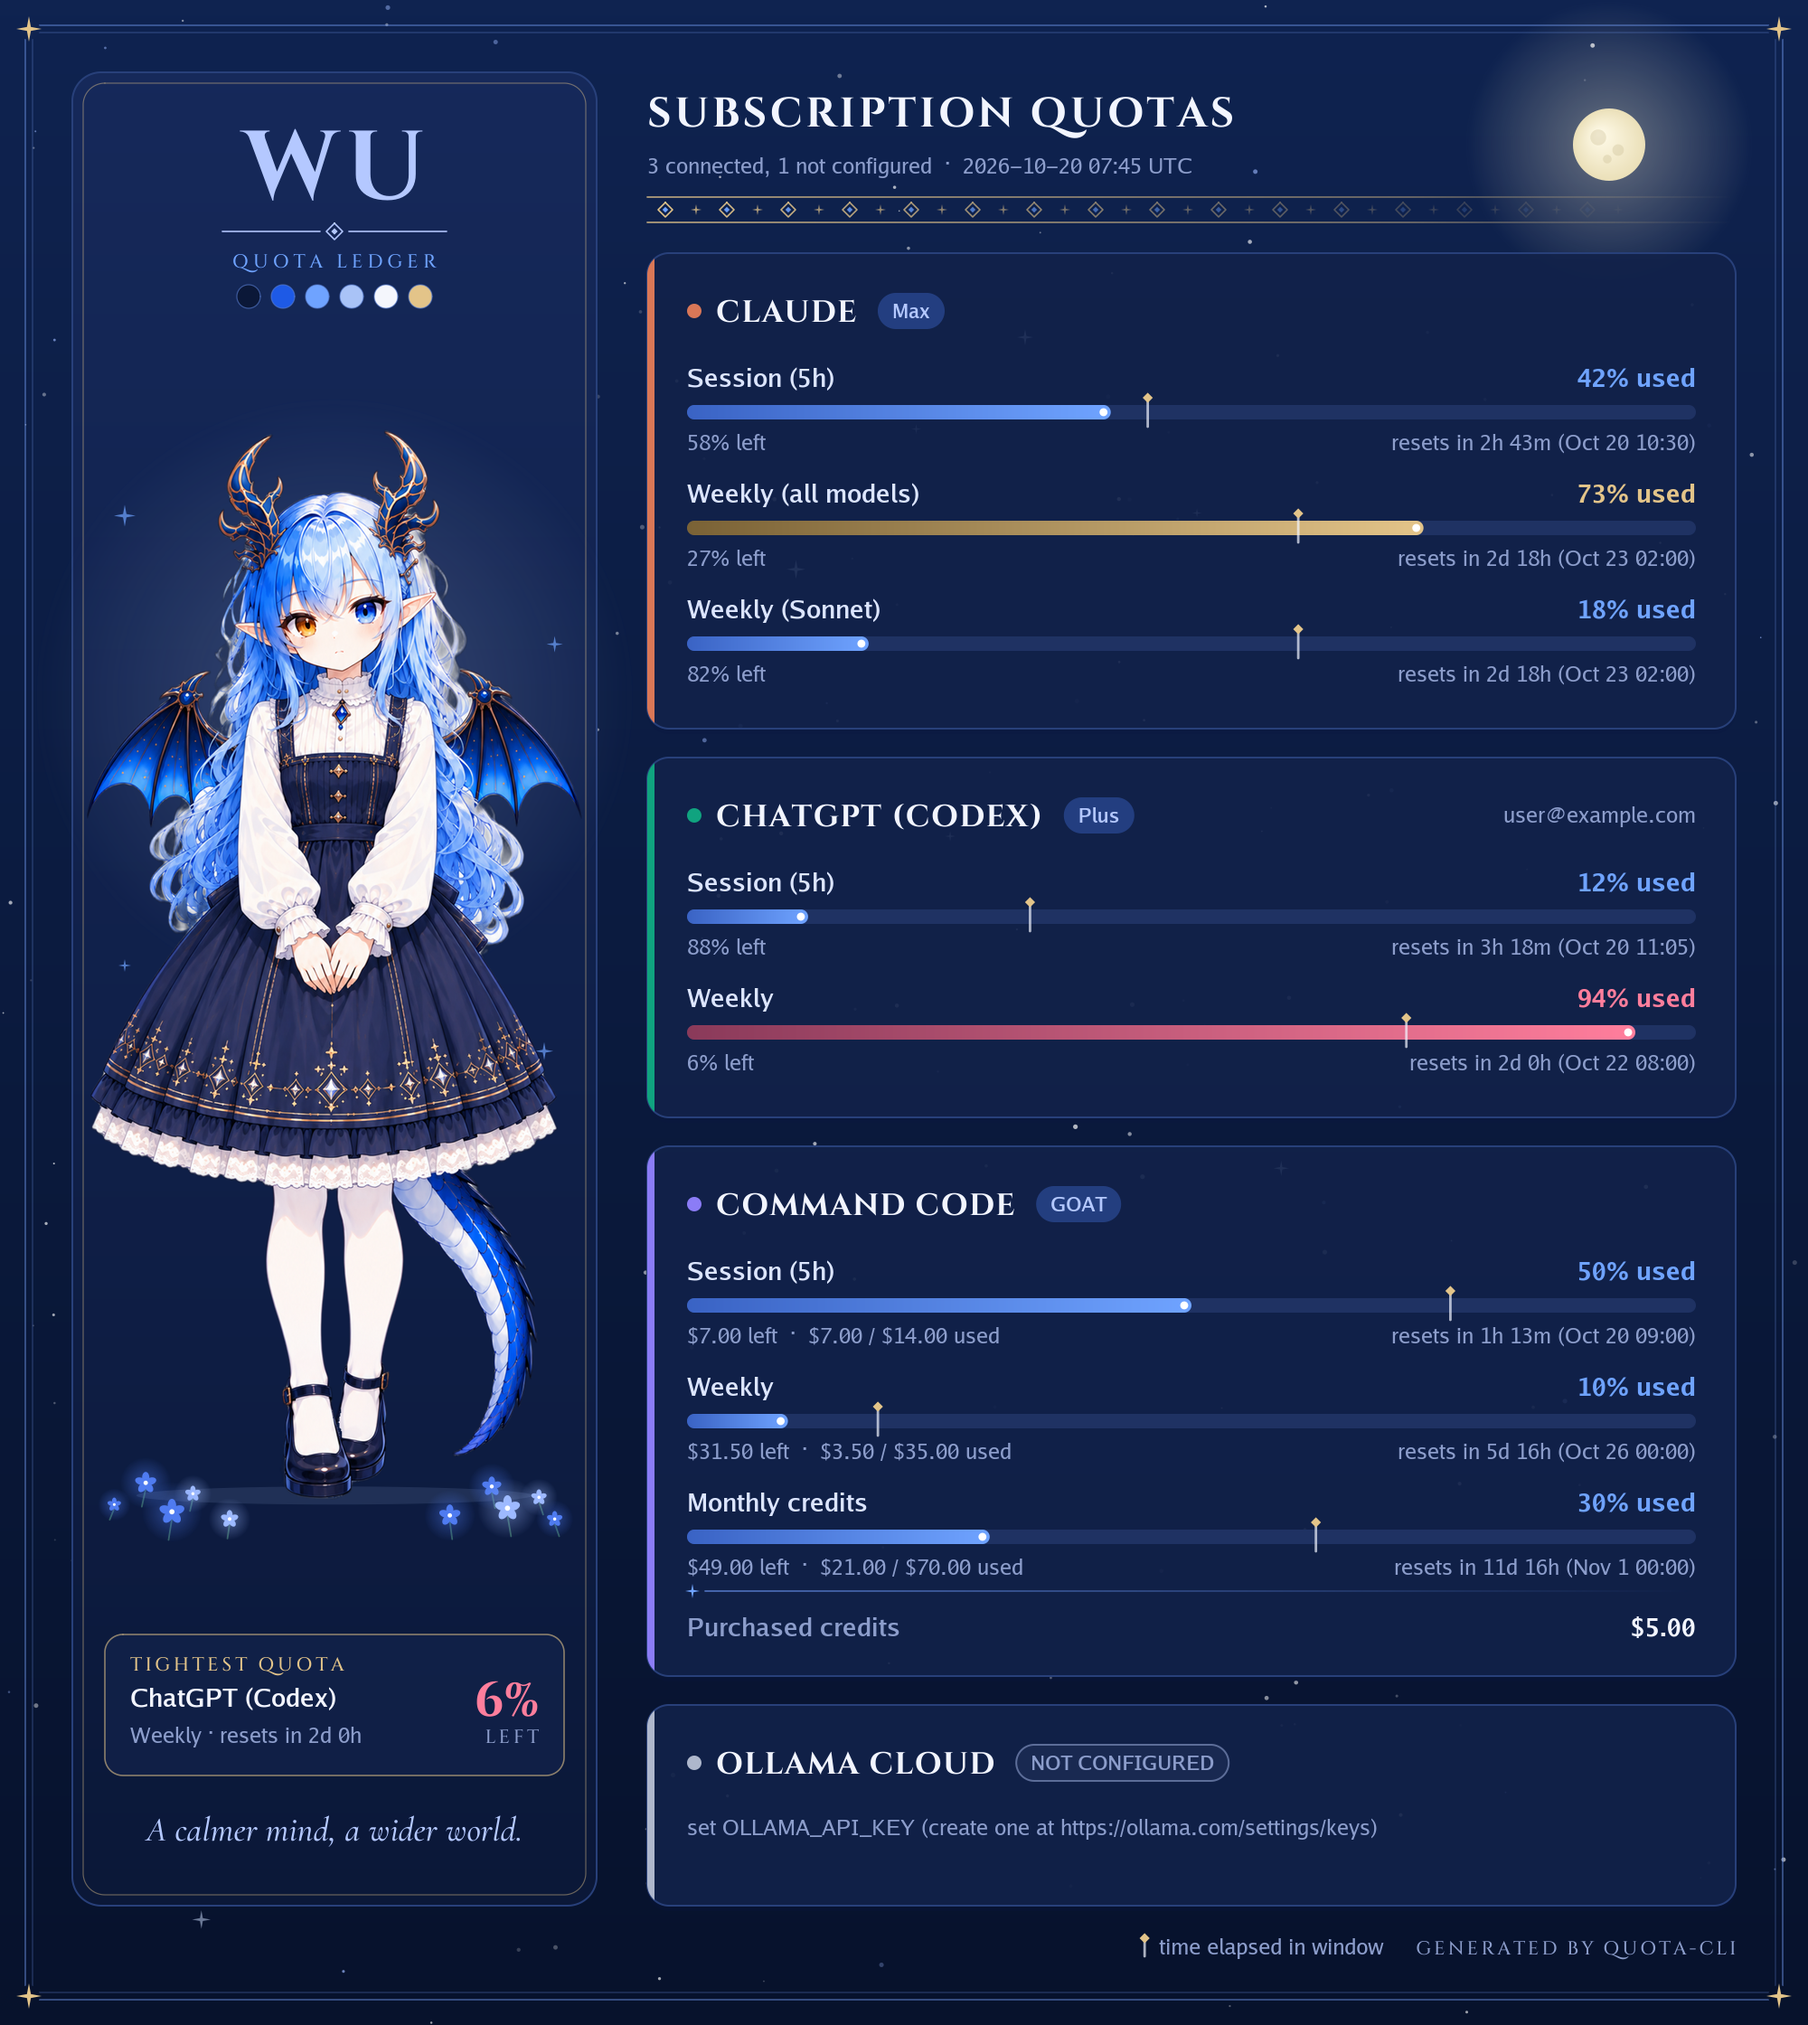
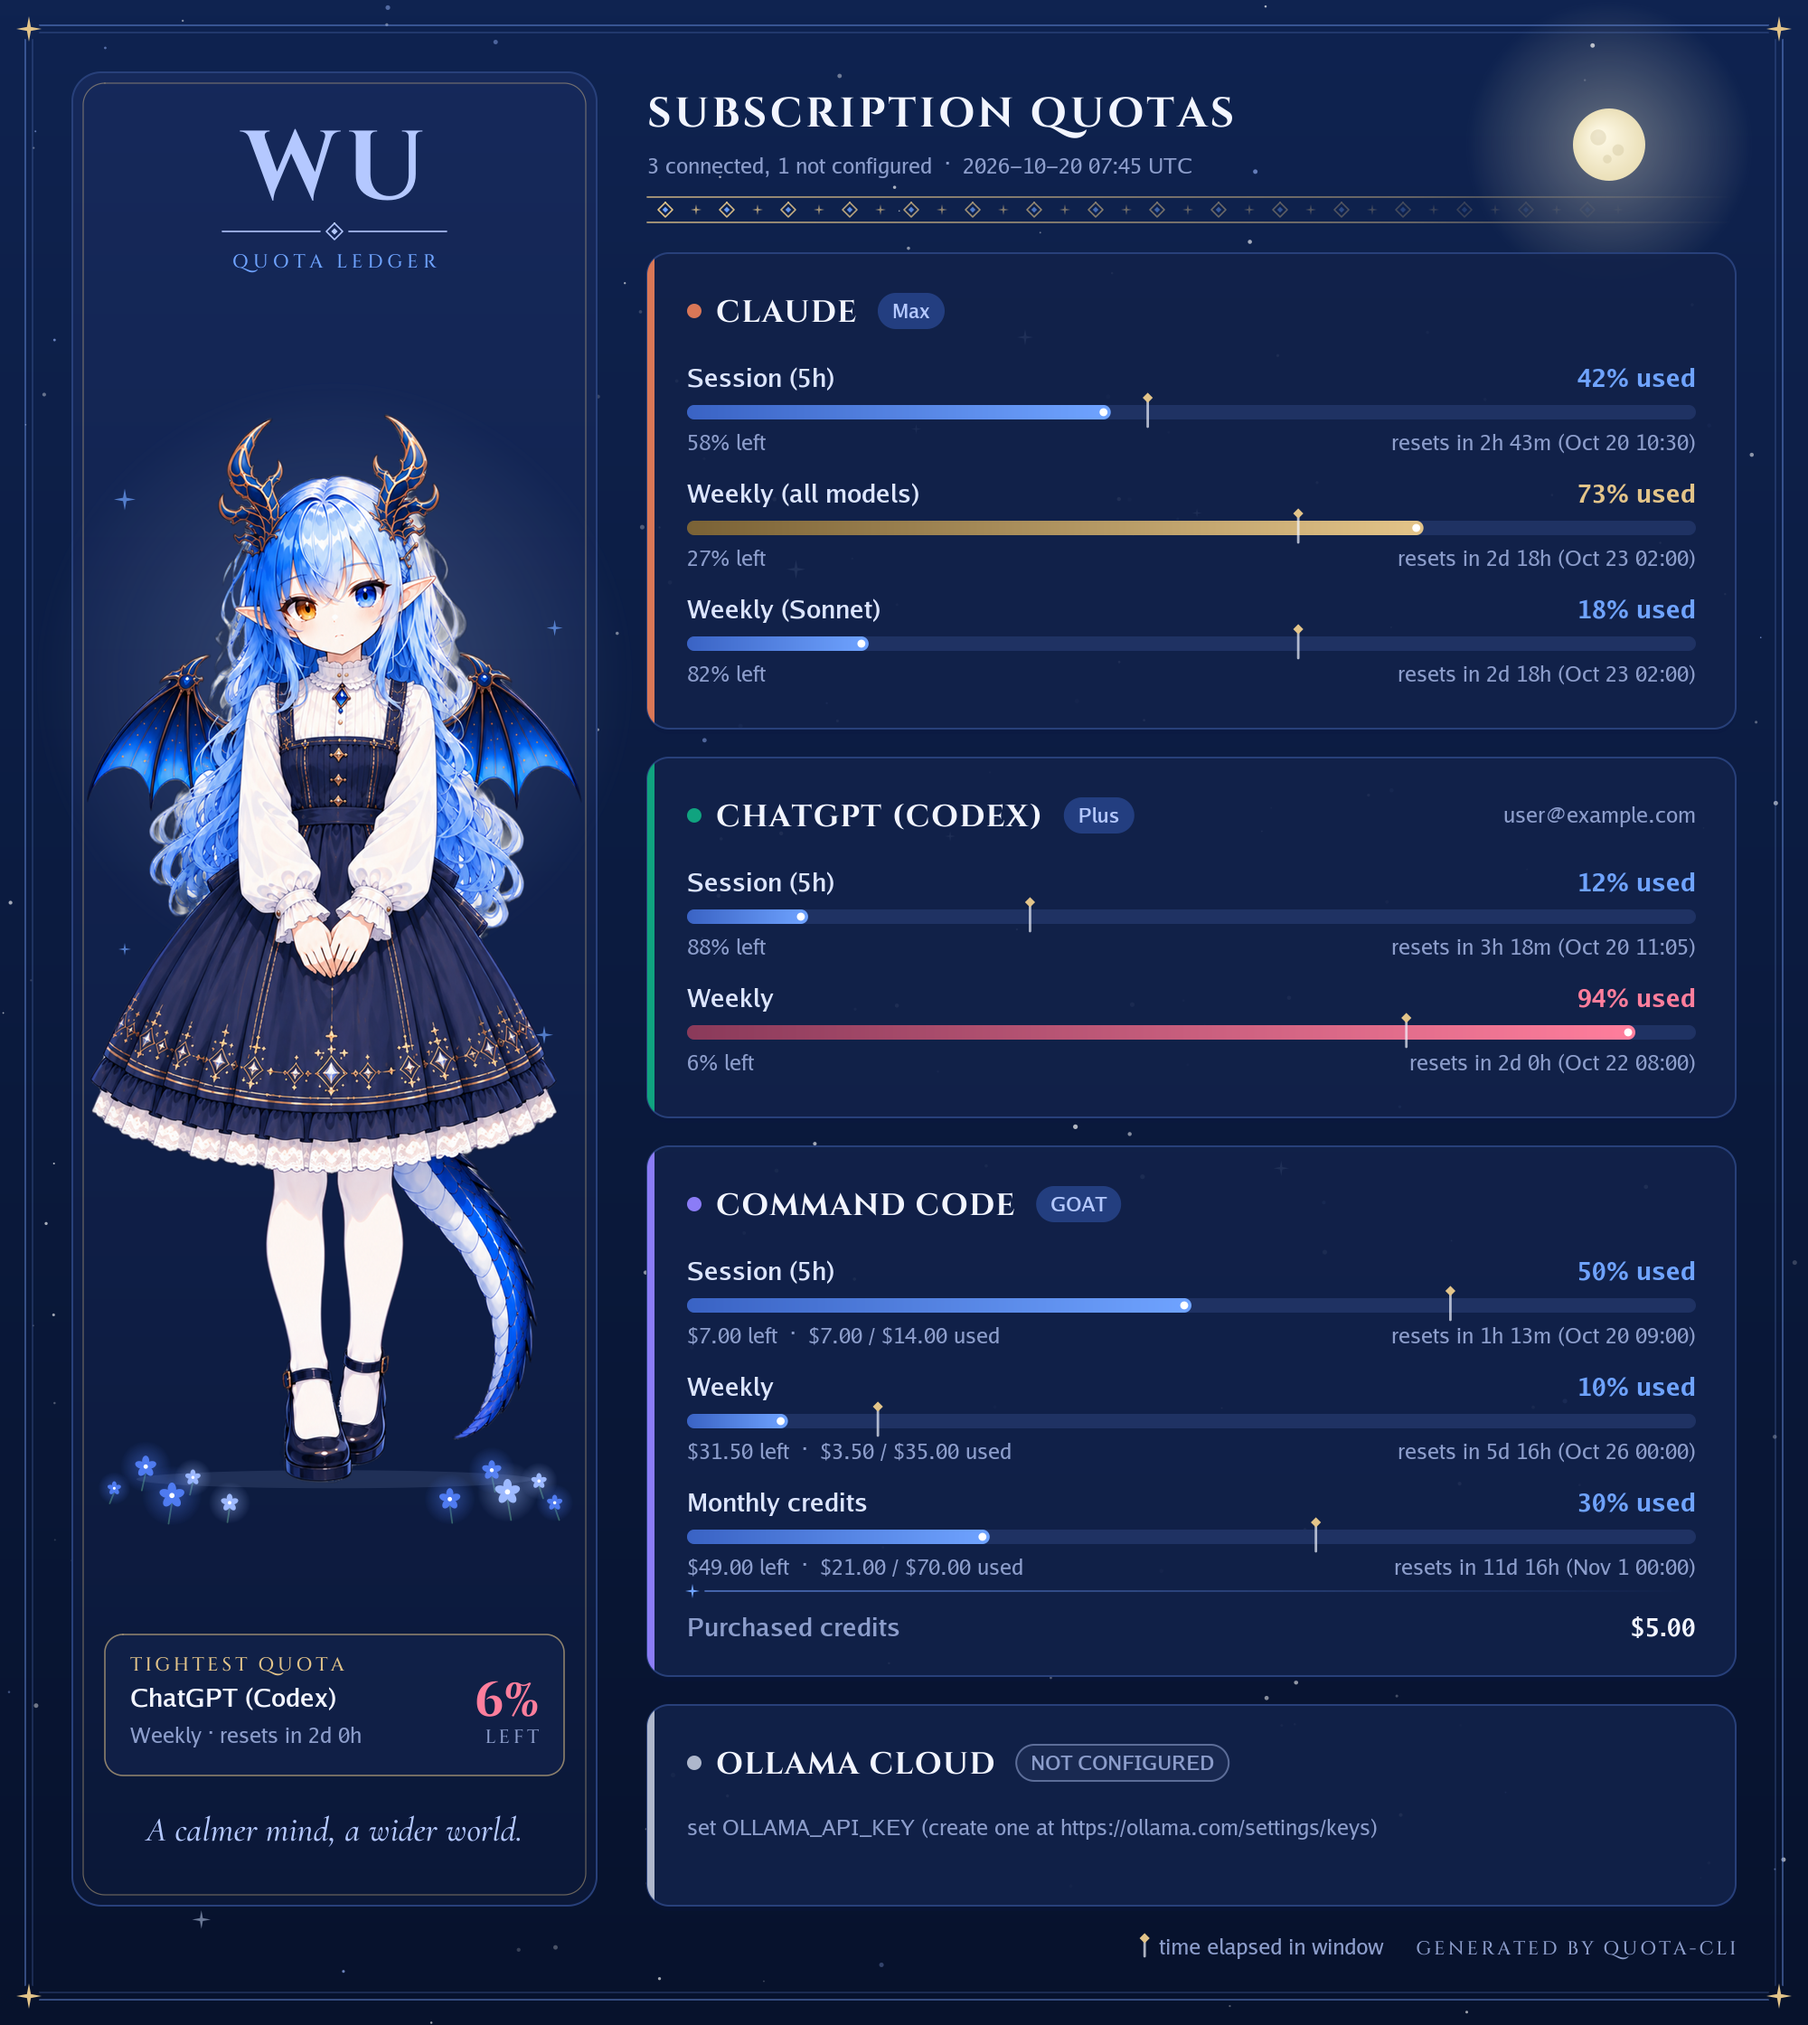
PNG: pick the theme from local time by default, drop the colour swatches
Claude-Session: https://claude.ai/code/session_017VkqDH1k9VKmfqG5Mjxtfn

Changed region(s): [[0.031, 0.1875, 0.341, 0.7812], [0.124, 0.125, 0.248, 0.1562]]

diff --git a/internal/render/png.go b/internal/render/png.go
@@ -41,14 +41,14 @@ type Persona struct {
 	Avatar  string // image file (PNG/JPEG); "" uses the built-in portrait, "none" hides the portrait panel
 	Name    string
 	Tagline string
-	Theme   string // "day" (default) or "night"
+	Theme   string // "auto" (default: night from 18:00 to 06:00 local time), "day" or "night"
 }
 
 // DefaultPersona is the built-in character, Wu.
-var DefaultPersona = Persona{Name: "WU", Tagline: "A calmer mind, a wider world.", Theme: "day"}
+var DefaultPersona = Persona{Name: "WU", Tagline: "A calmer mind, a wider world.", Theme: "auto"}
 
 // Themes lists the accepted values of Persona.Theme.
-var Themes = []string{"day", "night"}
+var Themes = []string{"auto", "day", "night"}
 
 // The image is laid out in logical pixels and drawn at scale for sharp text on HiDPI screens.
 const (
@@ -79,7 +79,6 @@ type palette struct {
 	sky, cobalt, royal, navy, gold, rose       color.Color
 	flower, flowerLight, pace                  color.Color
 	shadowAlpha                                float64
-	swatches                                   []color.Color
 }
 
 var dayTheme = palette{
@@ -91,7 +90,6 @@ var dayTheme = palette{
 	gold: hex("#B8925A"), rose: hex("#D45B7A"),
 	flower: hex("#3F6FE8"), flowerLight: hex("#8FB0F5"), pace: hex("#212952"),
 	shadowAlpha: 0.05,
-	swatches:    []color.Color{hex("#1B2C6E"), hex("#1E5AE6"), hex("#4E89FB"), hex("#A9C3F7"), hex("#F4F6FC"), hex("#3B3F55")},
 }
 
 var nightTheme = palette{
@@ -104,17 +102,21 @@ var nightTheme = palette{
 	gold: hex("#E3C489"), rose: hex("#FF7E9C"),
 	flower: hex("#4F7BF0"), flowerLight: hex("#9DB9FF"), pace: hex("#F2F5FF"),
 	shadowAlpha: 0.25,
-	swatches:    []color.Color{hex("#0B1838"), hex("#1E5AE6"), hex("#6FA3FF"), hex("#A9C3F7"), hex("#F4F6FC"), hex("#E3C489")},
 }
 
-func themeFor(name string) (palette, error) {
+func themeFor(name string, now time.Time) (palette, error) {
 	switch strings.ToLower(name) {
-	case "", "day", "light":
+	case "", "auto":
+		if h := now.Local().Hour(); h >= 18 || h < 6 {
+			return nightTheme, nil
+		}
+		return dayTheme, nil
+	case "day", "light":
 		return dayTheme, nil
 	case "night", "dark":
 		return nightTheme, nil
 	}
-	return palette{}, fmt.Errorf("unknown theme %q (want %s)", name, strings.Join(Themes, " or "))
+	return palette{}, fmt.Errorf("unknown theme %q (want %s)", name, strings.Join(Themes, ", "))
 }
 
 var accents = map[string]string{
@@ -192,7 +194,7 @@ func PNG(path string, out Output, p Persona) error {
 }
 
 func renderPNG(path string, out Output, p Persona, now time.Time) error {
-	t, err := themeFor(p.Theme)
+	t, err := themeFor(p.Theme, now)
 	if err != nil {
 		return err
 	}
@@ -419,19 +421,6 @@ func (pt *painter) persona(p Persona, avatar image.Image, tight *low, x, y, w, h
 	dc.SetColor(t.cobalt)
 	drawSpaced(dc, "QUOTA LEDGER", cx, top+20, 2.4, 0.5)
 	top += 34
-	// Her colour swatches, as on the sheet.
-	sw := 13.0
-	sx := cx - (float64(len(t.swatches))*sw+float64(len(t.swatches)-1)*6)/2 + sw/2
-	for i, c := range t.swatches {
-		dc.SetColor(c)
-		dc.DrawCircle((sx+float64(i)*(sw+6))*scale, (top+2)*scale, sw/2*scale)
-		dc.Fill()
-		dc.SetColor(withAlpha(t.hairline, 0.6))
-		dc.SetLineWidth(0.6 * scale)
-		dc.DrawCircle((sx+float64(i)*(sw+6))*scale, (top+2)*scale, sw/2*scale)
-		dc.Stroke()
-	}
-	top += 18
 
 	// Reserve the bottom for the "lowest remaining" callout and the motto.
 	bottomH := 0.0

diff --git a/cmd/quota/main.go b/cmd/quota/main.go
@@ -34,7 +34,7 @@ func run() int {
 		avatar   = flag.String("avatar", env("QUOTA_AVATAR", ""), "portrait for the image (PNG/JPEG path, or \"none\"); default is the built-in Wu [$QUOTA_AVATAR]")
 		persona  = flag.String("persona-name", env("QUOTA_PERSONA_NAME", render.DefaultPersona.Name), "name shown in the image [$QUOTA_PERSONA_NAME]")
 		tagline  = flag.String("persona-tagline", env("QUOTA_PERSONA_TAGLINE", render.DefaultPersona.Tagline), "motto shown in the image [$QUOTA_PERSONA_TAGLINE]")
-		theme    = flag.String("theme", env("QUOTA_THEME", render.DefaultPersona.Theme), "image theme: "+strings.Join(render.Themes, " or ")+" [$QUOTA_THEME]")
+		theme    = flag.String("theme", env("QUOTA_THEME", render.DefaultPersona.Theme), "image theme: "+strings.Join(render.Themes, ", ")+" (auto = night from 18:00 to 06:00 local time) [$QUOTA_THEME]")
 	)
 	flag.Usage = func() {
 		fmt.Fprintf(os.Stderr, "Usage: quota [flags]\n\nCollects subscription usage from local logins.\n\nFlags:\n")

diff --git a/internal/render/render_test.go b/internal/render/render_test.go
@@ -7,6 +7,7 @@ import (
 	"path/filepath"
 	"strings"
 	"testing"
+	"time"
 )
 
 func loadSample(t *testing.T) Output {
@@ -62,5 +63,18 @@ func TestText(t *testing.T) {
 		if !strings.Contains(sb.String(), want) {
 			t.Errorf("missing %q in:\n%s", want, sb.String())
 		}
+	}
+}
+
+func TestAutoTheme(t *testing.T) {
+	at := func(h int) time.Time { return time.Date(2026, 11, 1, h, 0, 0, 0, time.Local) }
+	for h, dark := range map[int]bool{5: true, 6: false, 12: false, 17: false, 18: true, 23: true} {
+		p, err := themeFor("auto", at(h))
+		if err != nil || p.dark != dark {
+			t.Errorf("auto at %02d:00: dark=%v err=%v, want dark=%v", h, p.dark, err, dark)
+		}
+	}
+	if _, err := themeFor("sepia", at(12)); err == nil {
+		t.Error("expected an error for an unknown theme")
 	}
 }

diff --git a/README.md b/README.md
@@ -9,7 +9,7 @@
 
 ![sample](examples/sample.png)
 
-加 `--theme night` 是月夜主题：
+晚上（本地时间 18:00 到次日 6:00）会自动换成月夜主题：
 
 ![sample night](examples/sample-night.png)
 
@@ -41,7 +41,7 @@ quota --png quota.png --avatar ./me.png --persona-name "LUNA" --persona-tagline 
 quota --png quota.png --avatar none    # 不要立绘，只保留数据卡片
 ```
 
-图片有 `day`（默认，白瓷底，对应主设定图）和 `night`（月夜星空，对应月下矢车菊那张图）两套主题，用 `--theme` 选。左栏下方会列出余量最少的一项（TIGHTEST QUOTA）；进度条上的金色小刻度表示这个周期已经过去了多少时间，用量条超过刻度就说明用得比平均快。
+图片有 `day`（白瓷底，对应主设定图）和 `night`（月夜星空，对应月下矢车菊那张图）两套主题，默认 `--theme auto` 按本地时间自动切换（18:00 到次日 6:00 用 night），也可以用 `--theme day` 或 `--theme night` 固定。左栏下方会列出余量最少的一项（TIGHTEST QUOTA）；进度条上的金色小刻度表示这个周期已经过去了多少时间，用量条超过刻度就说明用得比平均快。
 
 也可以用环境变量 `QUOTA_AVATAR`、`QUOTA_PERSONA_NAME`、`QUOTA_PERSONA_TAGLINE`、`QUOTA_THEME` 设默认值（方便 Hermes 这类 agent 调用时不用带参数）。立绘建议用透明背景的 PNG。图里的字体是 Cinzel 和 Cormorant Garamond（SIL OFL 1.1，见 `internal/render/assets`）。
 
